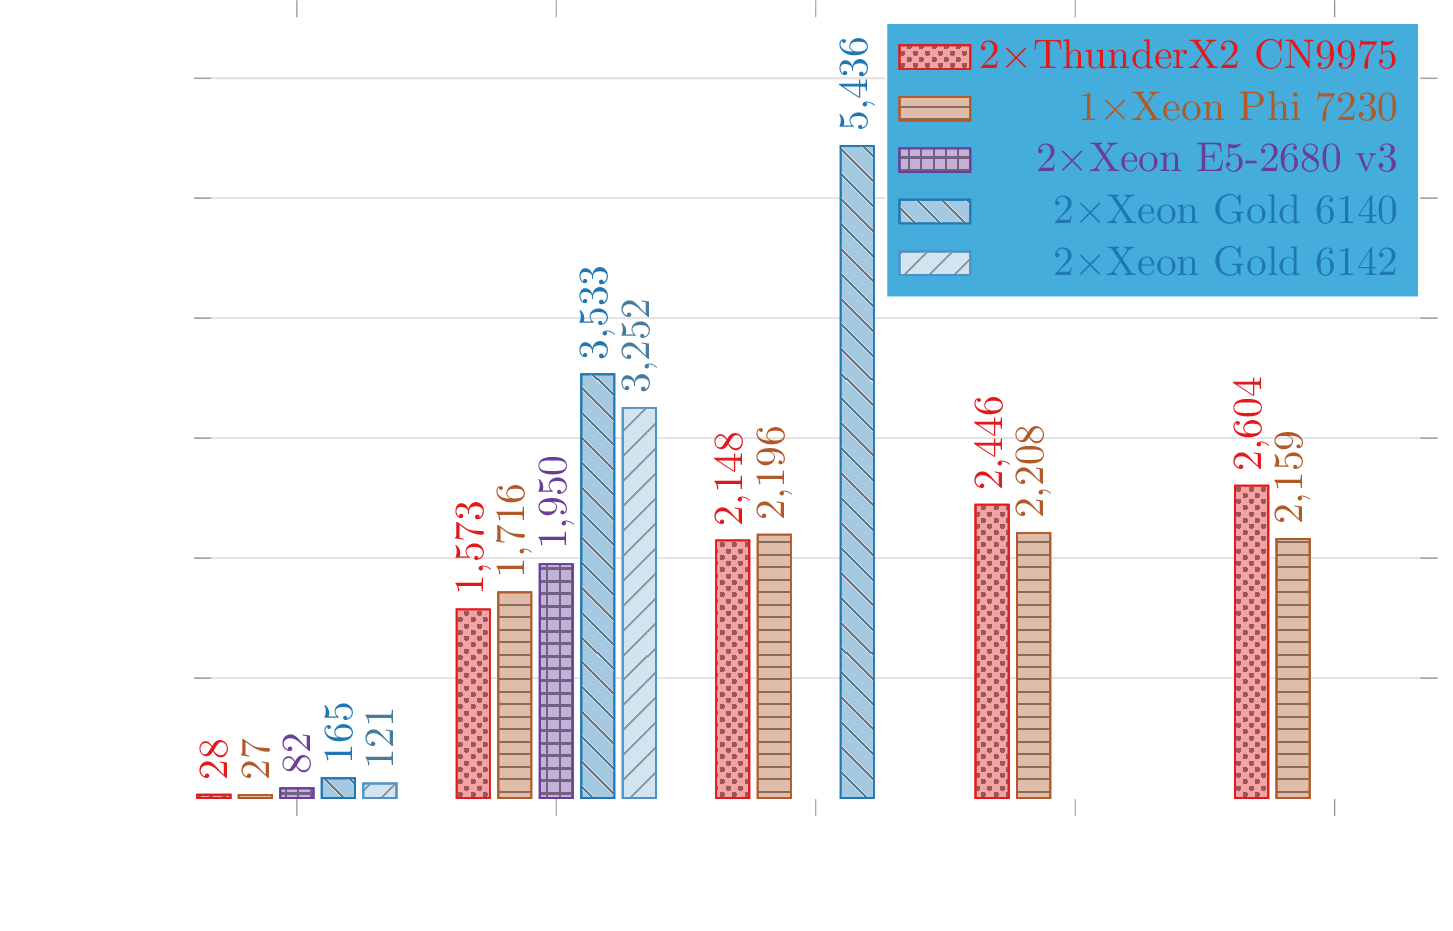
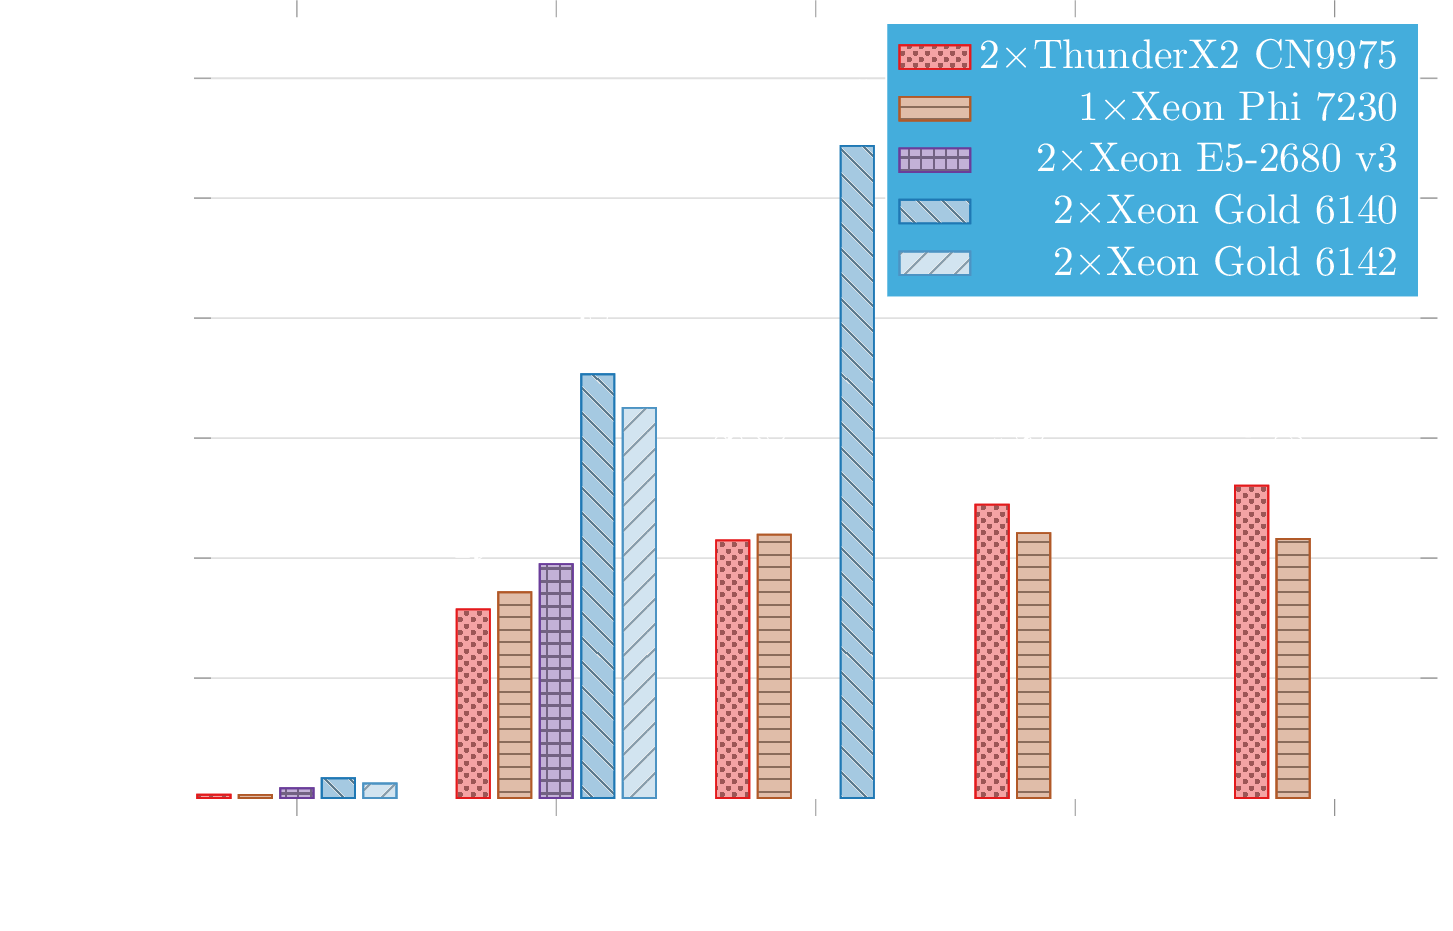
Update aff3ct img.

diff --git a/static/img/aff3ct/aff3ct.tex b/static/img/aff3ct/aff3ct.tex
@@ -71,7 +71,7 @@
             ]
 
     % ThunderX2 CN9975
-    \addplot[Paired-5,fill=Paired-5!40,draw=Paired-5,
+    \addplot[white,fill=Paired-5!40,draw=Paired-5,
              postaction={pattern color = black!50!Paired-5!70,
                          pattern=crosshatch dots}
             ]
@@ -79,7 +79,7 @@
     \label{plot1}
 
     % Xeon Phi 7230
-    \addplot[Paired-11,fill=Paired-11!40,draw=Paired-11,
+    \addplot[white,fill=Paired-11!40,draw=Paired-11,
               postaction={pattern color = black!50!Paired-11!70,
                           pattern=horizontal lines}
              ]
@@ -95,7 +95,7 @@
     % \label{plot3}
 
     % Xeon E5-2680 v3
-    \addplot[Paired-9,fill=Paired-9!40,draw=Paired-9,
+    \addplot[white,fill=Paired-9!40,draw=Paired-9,
              postaction={pattern color = black!50!Paired-9!70,
                          pattern=grid}
             ]
@@ -103,7 +103,7 @@
     \label{plot4}
 
     % Xeon Gold 6140
-    \addplot[Paired-1,fill=Paired-1!40,draw=Paired-1,
+    \addplot[white,fill=Paired-1!40,draw=Paired-1,
              postaction={pattern color = black!50!Paired-1!70,
                          pattern=flexible hatch north west}
             ]
@@ -111,19 +111,19 @@
     \label{plot5}
 
     % Xeon Gold 6142
-    \addplot[black!25!Paired-1!80,fill=Paired-1!20,draw=Paired-1!80,
+    \addplot[white,fill=Paired-1!20,draw=Paired-1!80,
              postaction={pattern color = black!50!Paired-1!50,
                          pattern=flexible hatch north east}
             ]
             coordinates {(1T1SMT,121) (NT1SMT,3252)};
     \label{plot6}
 
-    \legend{\color{Paired-5}$2 \times$ThunderX2 CN9975,
-            \color{Paired-11}$1 \times$Xeon Phi 7230,
+    \legend{\color{white}$2 \times$ThunderX2 CN9975,
+            \color{white}$1 \times$Xeon Phi 7230,
             % $1 \times$Ryzen 7 2700X,
-            \color{Paired-9}$2 \times$Xeon E5-2680 v3,
-            \color{Paired-1}$2 \times$Xeon Gold 6140,
-            \color{Paired-1}$2 \times$Xeon Gold 6142,}
+            \color{white}$2 \times$Xeon E5-2680 v3,
+            \color{white}$2 \times$Xeon Gold 6140,
+            \color{white}$2 \times$Xeon Gold 6142,}
 \end{axis}
 \end{tikzpicture}
 \end{document}
